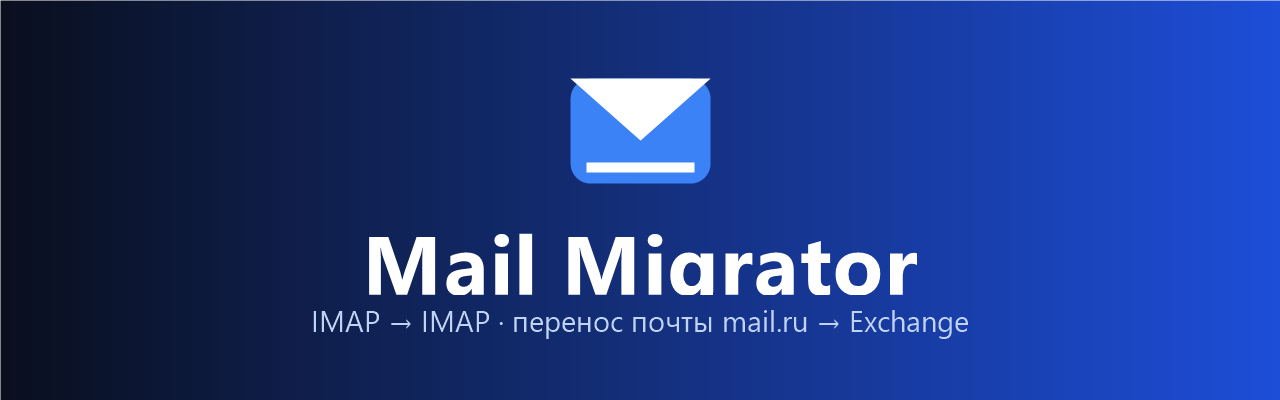
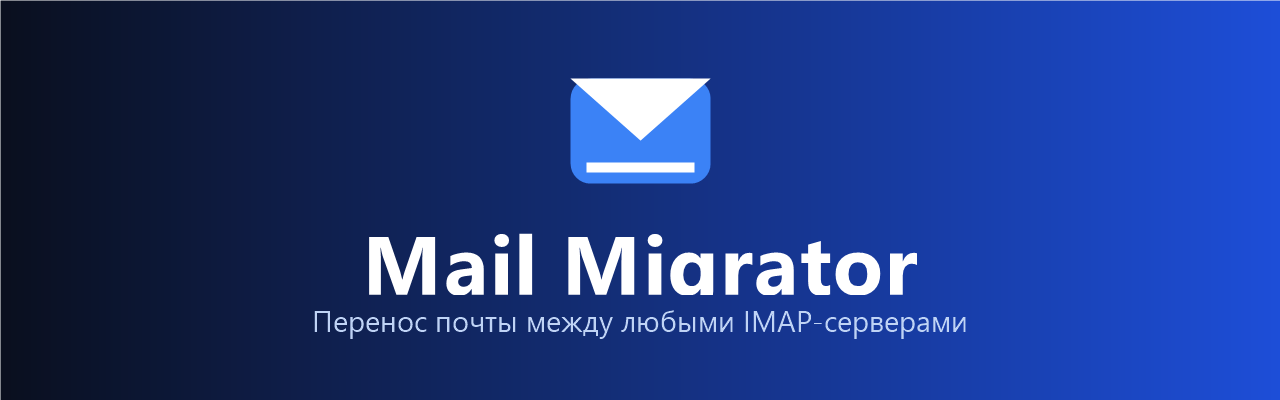
Remove MMZ references and arrows, generalize to universal migrator
Support any IMAP server (Gmail, Yandex, mail.ru, Exchange): drop
provider-specific labels, arrows and company mentions.

Changed region(s): [[0.25, 0.78, 0.75, 0.84]]

diff --git a/MainWindow.xaml b/MainWindow.xaml
@@ -27,7 +27,7 @@
                     </Grid.ColumnDefinitions>
                     <StackPanel>
                         <TextBlock Text="MAIL MIGRATOR" FontSize="22" FontWeight="Bold" Foreground="White"/>
-                        <TextBlock Text="Перенос почты между IMAP-серверами · mail.ru → Exchange" FontSize="13"
+                        <TextBlock Text="Перенос почты между любыми IMAP-серверами" FontSize="13"
                                    Foreground="#BFD3F5" Margin="0,2,0,0"/>
                     </StackPanel>
                     <TextBlock Grid.Column="1" Text="📧" FontSize="30" VerticalAlignment="Center"/>
@@ -39,7 +39,7 @@
                 <StackPanel>
                     <TextBlock Text="КАК ПОЛЬЗОВАТЬСЯ" FontWeight="SemiBold" Foreground="#7FA8FF" Margin="0,0,0,5" FontSize="11"/>
                     <TextBlock TextWrapping="Wrap" Foreground="#B9CCF0" LineHeight="20" FontSize="13"
-                               Text="1. Источник (mail.ru): логин = полный e-mail, пароль = пароль приложения (не основной пароль).&#10;2. Назначение (Exchange): логин = доменная учётка, пароль = доменный пароль.&#10;3. При необходимости задайте период «с…по…» и нажмите «▶ Запустить миграцию».&#10;Пароли шифруются (DPAPI) и хранятся только на этом компьютере."/>
+                               Text="1. Источник: логин = полный e-mail, пароль = пароль приложения (для Gmail, Яндекс Почты и mail.ru создаётся в настройках аккаунта, не основной пароль).&#10;2. Назначение: любой IMAP-сервер, куда переносите почту.&#10;3. При необходимости задайте период «с…по…» и нажмите «▶ Запустить миграцию».&#10;Пароли шифруются (DPAPI) и хранятся только на этом компьютере."/>
                 </StackPanel>
             </Border>
 
@@ -54,7 +54,7 @@
                 <!-- Источник -->
                 <Border Grid.Column="0" Style="{StaticResource Card}">
                     <StackPanel>
-                        <TextBlock Text="ИСТОЧНИК · MAIL.RU" Style="{StaticResource SectionTitle}"/>
+                        <TextBlock Text="ИСТОЧНИК" Style="{StaticResource SectionTitle}"/>
                         <Grid>
                             <Grid.ColumnDefinitions>
                                 <ColumnDefinition Width="150"/>
@@ -85,7 +85,7 @@
                 <!-- Назначение -->
                 <Border Grid.Column="2" Style="{StaticResource Card}">
                     <StackPanel>
-                        <TextBlock Text="НАЗНАЧЕНИЕ · EXCHANGE" Style="{StaticResource SectionTitle}"/>
+                        <TextBlock Text="НАЗНАЧЕНИЕ" Style="{StaticResource SectionTitle}"/>
                         <Grid>
                             <Grid.ColumnDefinitions>
                                 <ColumnDefinition Width="150"/>

diff --git a/README.md b/README.md
@@ -4,8 +4,8 @@
 
 # Mail Migrator
 
-**Перенос почты между IMAP-серверами без даунтайма.**
-Например, с *mail.ru* на *Microsoft Exchange*.
+**Перенос почты между любыми IMAP-серверами без даунтайма.**
+Gmail, Яндекс Почта, mail.ru, Microsoft Exchange и другие.
 
 [![.NET](https://img.shields.io/badge/.NET-8.0-512BD4?style=for-the-badge&logo=dotnet&logoColor=white)](https://dotnet.microsoft.com/)
 [![Windows](https://img.shields.io/badge/Windows-10%2F11-0078D6?style=for-the-badge&logo=windows&logoColor=white)](#)
@@ -21,14 +21,14 @@
 
 **Mail Migrator** — настольное Windows-приложение (WPF / .NET 8), которое переносит почту
 из одного IMAP-ящика в другой: читает письма из источника и складывает их в назначение,
-сохраняя флаги, дату и структуру. Написано под задачу миграции *mail.ru → Exchange*,
-но работает с любыми IMAP-серверами.
+сохраняя флаги, дату и структуру. Работает с любыми IMAP-серверами: Gmail, Яндекс Почта,
+mail.ru, Microsoft Exchange и другими.
 
-Запускается одним файлом `MailMigrator.exe` — без установки, без сервера, без доступа к консоли Exchange.
+Запускается одним файлом `MailMigrator.exe` — без установки, без сервера и без доступа к консоли Exchange.
 
 ## Ключевые возможности
 
-- 🔁 **IMAP → IMAP** — источник и назначение подключаются напрямую, по любому хосту/порту.
+- 🔁 **IMAP-to-IMAP** — источник и назначение подключаются напрямую, по любому хосту/порту.
 - 🧹 **Дедупликация по `Message-ID`** — уже перенесённые письма не копируются повторно.
 - 📅 **Фильтр по периоду** — можно перенести письма только за нужный диапазон дат «с… по…».
 - 🛡 **Защита от повторов в INBOX** — граница по дате самого старого письма на назначении:
@@ -53,11 +53,11 @@
 
 ## Установка
 
-Готовый скомпилированный `MailMigrator.exe` (x64, self-contained) доступен в
-[**Releases**](https://github.com/KleopIn/MailMigrator/releases) — скачайте и запустите.
+Бинарник `MailMigrator.exe` (x64, self-contained) скоро появится в Releases.
+Пока — соберите из исходников по инструкции ниже.
 
 > ⚠ Windows может показать предупреждение SmartScreen (нет цифровой подписи) — нажмите
-> «Подробнее → Выполнить в любом случае».
+> «Подробнее», затем «Выполнить в любом случае».
 
 ### Сборка из исходников
 
@@ -67,14 +67,14 @@
 git clone https://github.com/KleopIn/MailMigrator.git
 cd MailMigrator
 dotnet publish -c Release -r win-x64 --self-contained true -p:PublishSingleFile=true -o publish
-# → publish/MailMigrator.exe
+# результат: publish/MailMigrator.exe
 ```
 
 ## Использование
 
-1. **Источник (mail.ru)**: логин = полный e-mail, пароль = **пароль приложения**
-   (создаётся в настройках mail.ru, не основной пароль).
-2. **Назначение (Exchange)**: логин = доменная учётка, пароль = доменный пароль.
+1. **Источник**: логин = полный e-mail, пароль = **пароль приложения**
+   (для Gmail, Яндекс Почты и mail.ru создаётся в настройках аккаунта, не основной пароль).
+2. **Назначение**: любой IMAP-сервер, куда переносите почту (Exchange, другой почтовый ящик и т.д.).
 3. При необходимости задайте **период** «с… по…» и **папки** (Входящие / Отправленные).
 4. Нажмите **«▶ Запустить миграцию»** и следите за журналом.
 
@@ -89,7 +89,7 @@ dotnet publish -c Release -r win-x64 --self-contained true -p:PublishSingleFile=
 | Дедупликация | Собирается множество `Message-ID` из назначения; совпадения пропускаются |
 | Граница INBOX | Берётся дата самого старого письма в назначении — всё, что новее, пропускается |
 | Фильтры | Размер (skip, если больше лимита) и диапазон дат |
-| Копирование | `GetMessageAsync` → `Append` с исходными флагами и `INTERNALDATE` |
+| Копирование | `GetMessageAsync`, затем `Append` с исходными флагами и `INTERNALDATE` |
 | Устойчивость | Ошибки не прерывают миграцию, при обрыве соединения — авто-переподключение |
 
 ## Безопасность
@@ -132,6 +132,6 @@ MailMigrator/
 
 <div align="center">
 
-Сделано с ⚙ для системных администраторов · © MMZ1
+Сделано с ⚙ для системных администраторов
 
 </div>
